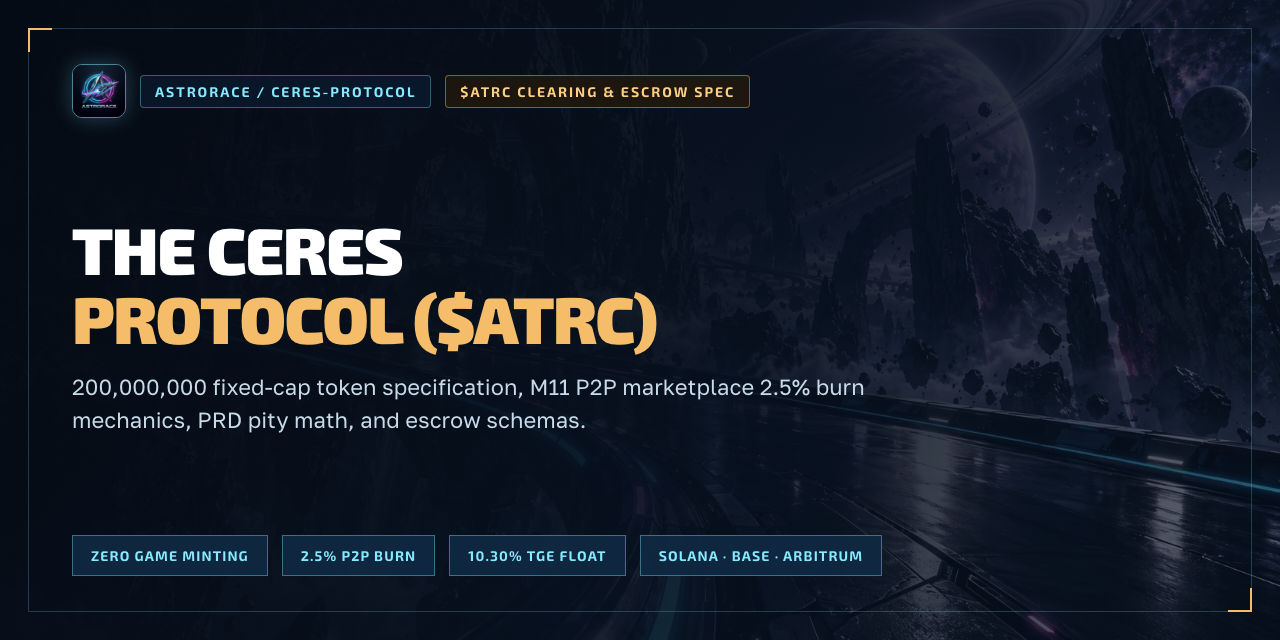
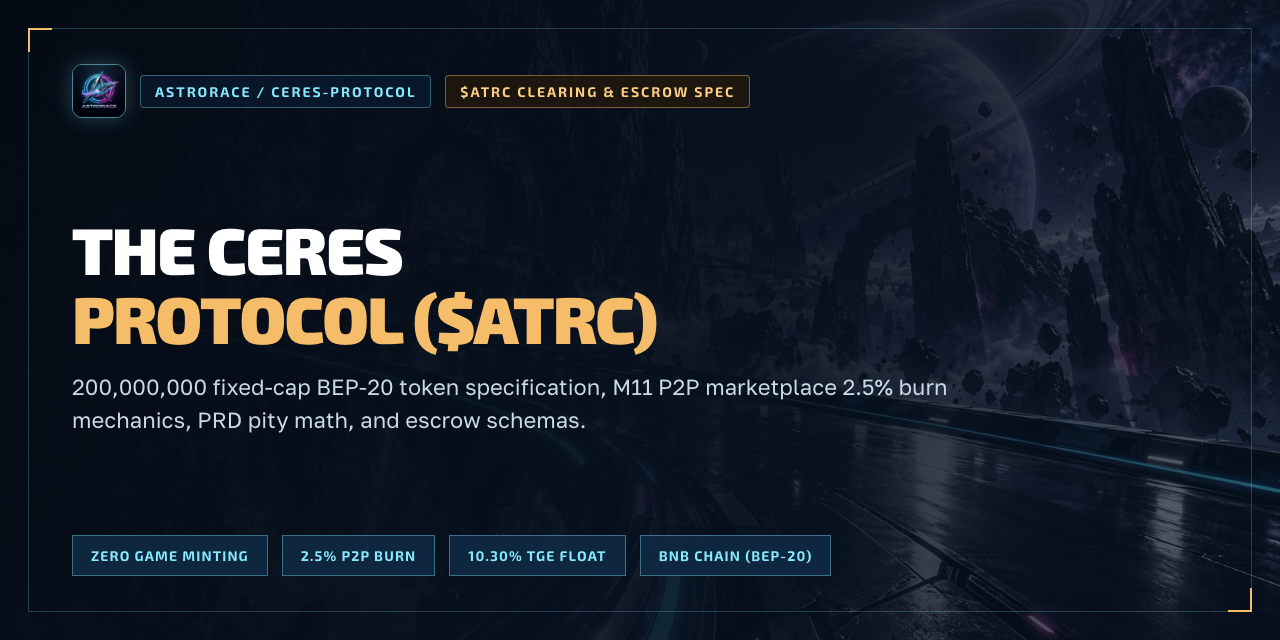
feat: standardize $ATRC specification exclusively on BNB Chain (BEP-20)

Changed region(s): [[0.25, 0.5938, 0.75, 0.625], [0.5, 0.8125, 0.6875, 0.9062]]

diff --git a/src/allocation.ts b/src/allocation.ts
@@ -9,6 +9,7 @@ export interface AllocationPool {
   readonly linearVestingMonths: number;
 }
 
+export const ATRC_CHAIN = 'BNB Chain (BEP-20)' as const;
 export const ATRC_MAX_SUPPLY = 200_000_000 as const;
 export const ATRC_INITIAL_CIRCULATING_SUPPLY = 20_600_000 as const;
 export const ATRC_MINTING_DISABLED = true as const;

diff --git a/README.md b/README.md
@@ -7,7 +7,8 @@
 Reference TypeScript specification and verification suite for **ASTRORACE**'s fixed-supply token economy (`$ATRC`), `M11` peer-to-peer module marketplace clearing split, and Pseudo-Random Distribution (`PRD`) container pity guarantees.
 
 - **Official Website:** [https://astrorace.app](https://astrorace.app)
-- **Full Whitepaper & Docs:** [https://astrorace.app/docs/](https://astrorace.app/docs/)
+- **Token Network:** `BNB Chain (BEP-20)` *(Exclusively on BNB Chain)*
+- **Full Whitepaper & Docs:** [https://astrorace.gitbook.io/astrorace-docs/](https://astrorace.gitbook.io/astrorace-docs/) · [https://astrorace.app/docs/](https://astrorace.app/docs/)
 
 ---
 
